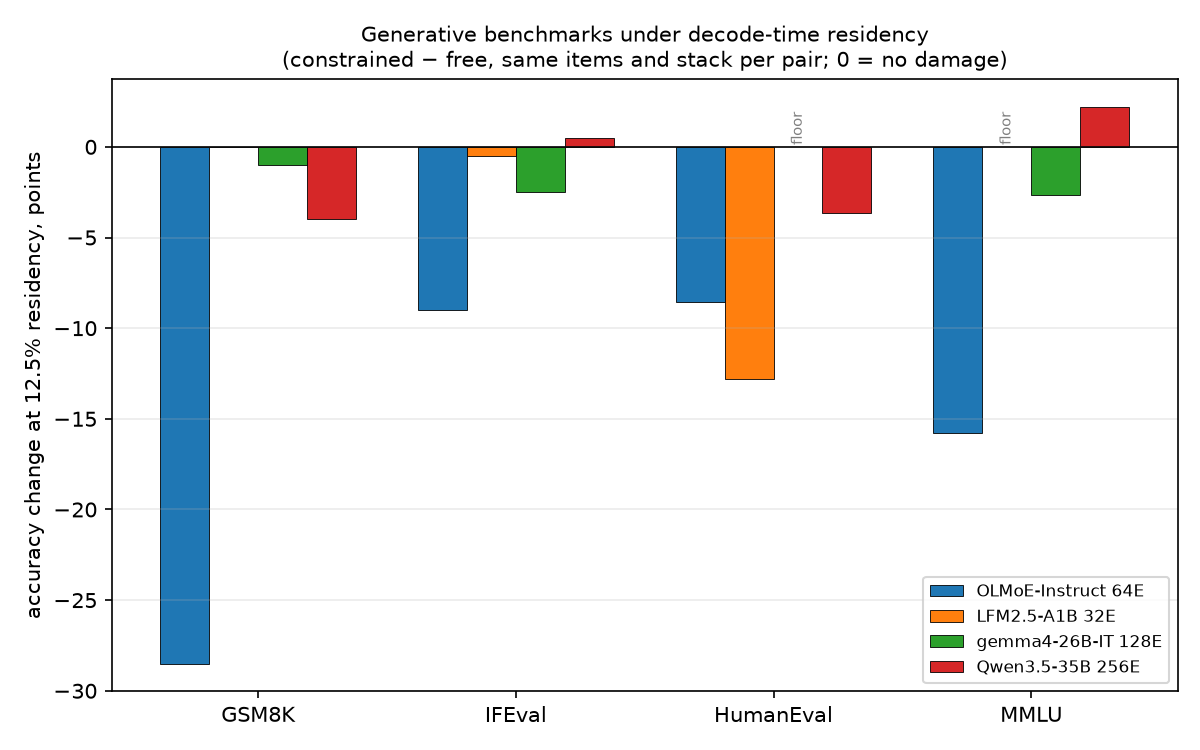
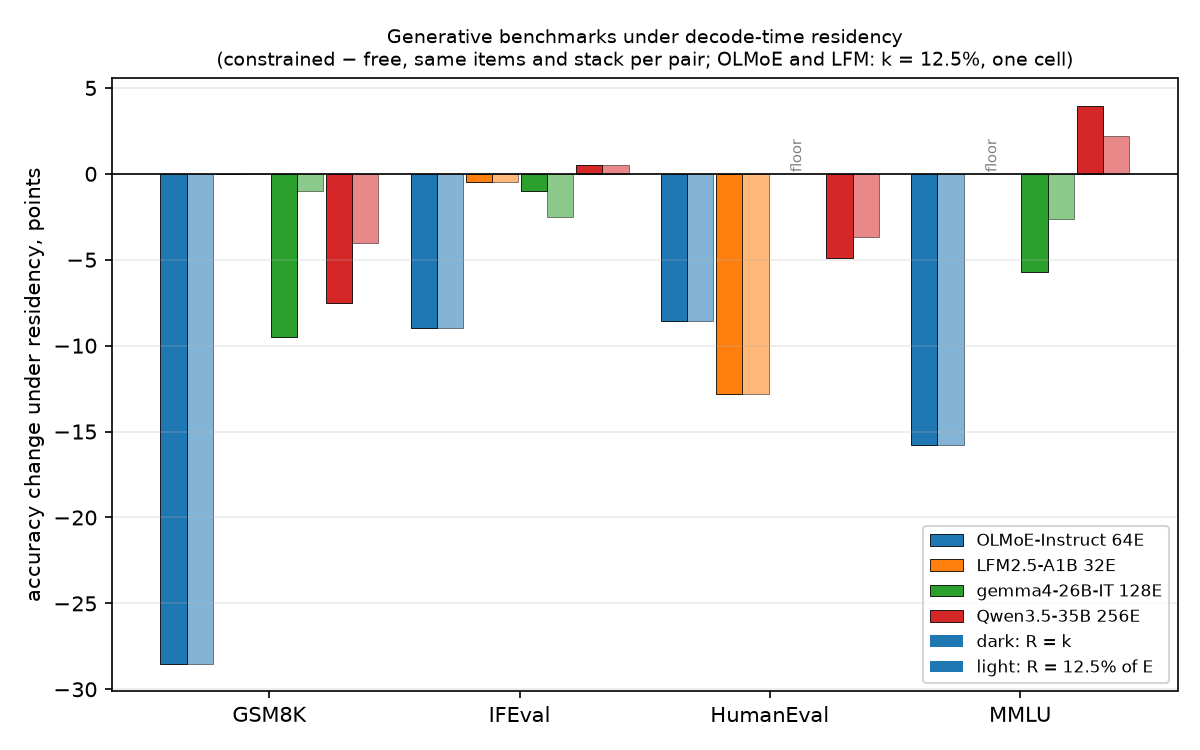
Benchmark figure: paired R=k and 12.5% bars

diff --git a/analysis/ple/plot_instruct.py b/analysis/ple/plot_instruct.py
@@ -60,6 +60,8 @@ def bench():
             "pass@1,create_test": "HumanEval", "exact_match,get-answer": "MMLU"}
     arm125 = {"olmoe_instruct": "R8", "lfm25_instruct": "R4",
               "gemma4_instruct": "R16", "qwen35_instruct": "R32"}
+    armk = {"olmoe_instruct": "R8", "lfm25_instruct": "R4",
+            "gemma4_instruct": "R8", "qwen35_instruct": "R8"}
     floor = {("lfm25_instruct", "MMLU"), ("gemma4_instruct", "HumanEval")}
     vals = {}
     for f in ("instruct_genbench.csv", "instruct_genbench_vllm.csv"):
@@ -70,27 +72,34 @@ def bench():
     models = list(NAMES)
     fig, ax = plt.subplots(figsize=(8, 5))
     cols = plt.cm.tab10(np.linspace(0, 1, 10))
-    w = 0.19
+    w = 0.105
     for i, m in enumerate(models):
-        xs, ys = [], []
-        for j, b in enumerate(benches):
-            if (m, b) in floor:
-                ax.annotate("floor", (j + (i - 1.5) * w, 0.3), fontsize=7, rotation=90,
-                            ha="center", color="grey")
-                continue
-            fr, cn = vals.get((m, "free", b)), vals.get((m, arm125[m], b))
-            if fr is None or cn is None:
-                continue
-            xs.append(j + (i - 1.5) * w)
-            ys.append(100 * (cn - fr))
-        ax.bar(xs, ys, width=w, color=cols[i], label=NAMES[m], edgecolor="black", lw=0.4)
+        for shade, (arms, tag) in enumerate((( armk, "R=k"), (arm125, "12.5%"))):
+            xs, ys = [], []
+            for j, b in enumerate(benches):
+                x = j + (i - 1.5) * 2.1 * w + (shade - 0.5) * w
+                if (m, b) in floor:
+                    if shade == 0:
+                        ax.annotate("floor", (j + (i - 1.5) * 2.1 * w, 0.3), fontsize=7,
+                                    rotation=90, ha="center", color="grey")
+                    continue
+                fr, cn = vals.get((m, "free", b)), vals.get((m, arms[m], b))
+                if fr is None or cn is None:
+                    continue
+                xs.append(x)
+                ys.append(100 * (cn - fr))
+            ax.bar(xs, ys, width=w, color=cols[i], edgecolor="black", lw=0.4,
+                   alpha=1.0 if shade == 0 else 0.55,
+                   label=NAMES[m] if shade == 0 else None)
+    ax.bar([], [], color="grey", alpha=1.0, label="dark: R = k", edgecolor="black")
+    ax.bar([], [], color="grey", alpha=0.55, label="light: R = 12.5% of E", edgecolor="black")
     ax.axhline(0, color="black", lw=0.8)
     ax.set_xticks(range(len(benches)))
     ax.set_xticklabels(benches)
-    ax.set_ylabel("accuracy change at 12.5% residency, points")
+    ax.set_ylabel("accuracy change under residency, points")
     ax.set_title("Generative benchmarks under decode-time residency\n"
-                 "(constrained − free, same items and stack per pair; 0 = no damage)",
-                 fontsize=10)
+                 "(constrained − free, same items and stack per pair; "
+                 "OLMoE and LFM: k = 12.5%, one cell)", fontsize=9)
     ax.legend(fontsize=8)
     ax.grid(alpha=0.25, axis="y")
     fig.tight_layout()
